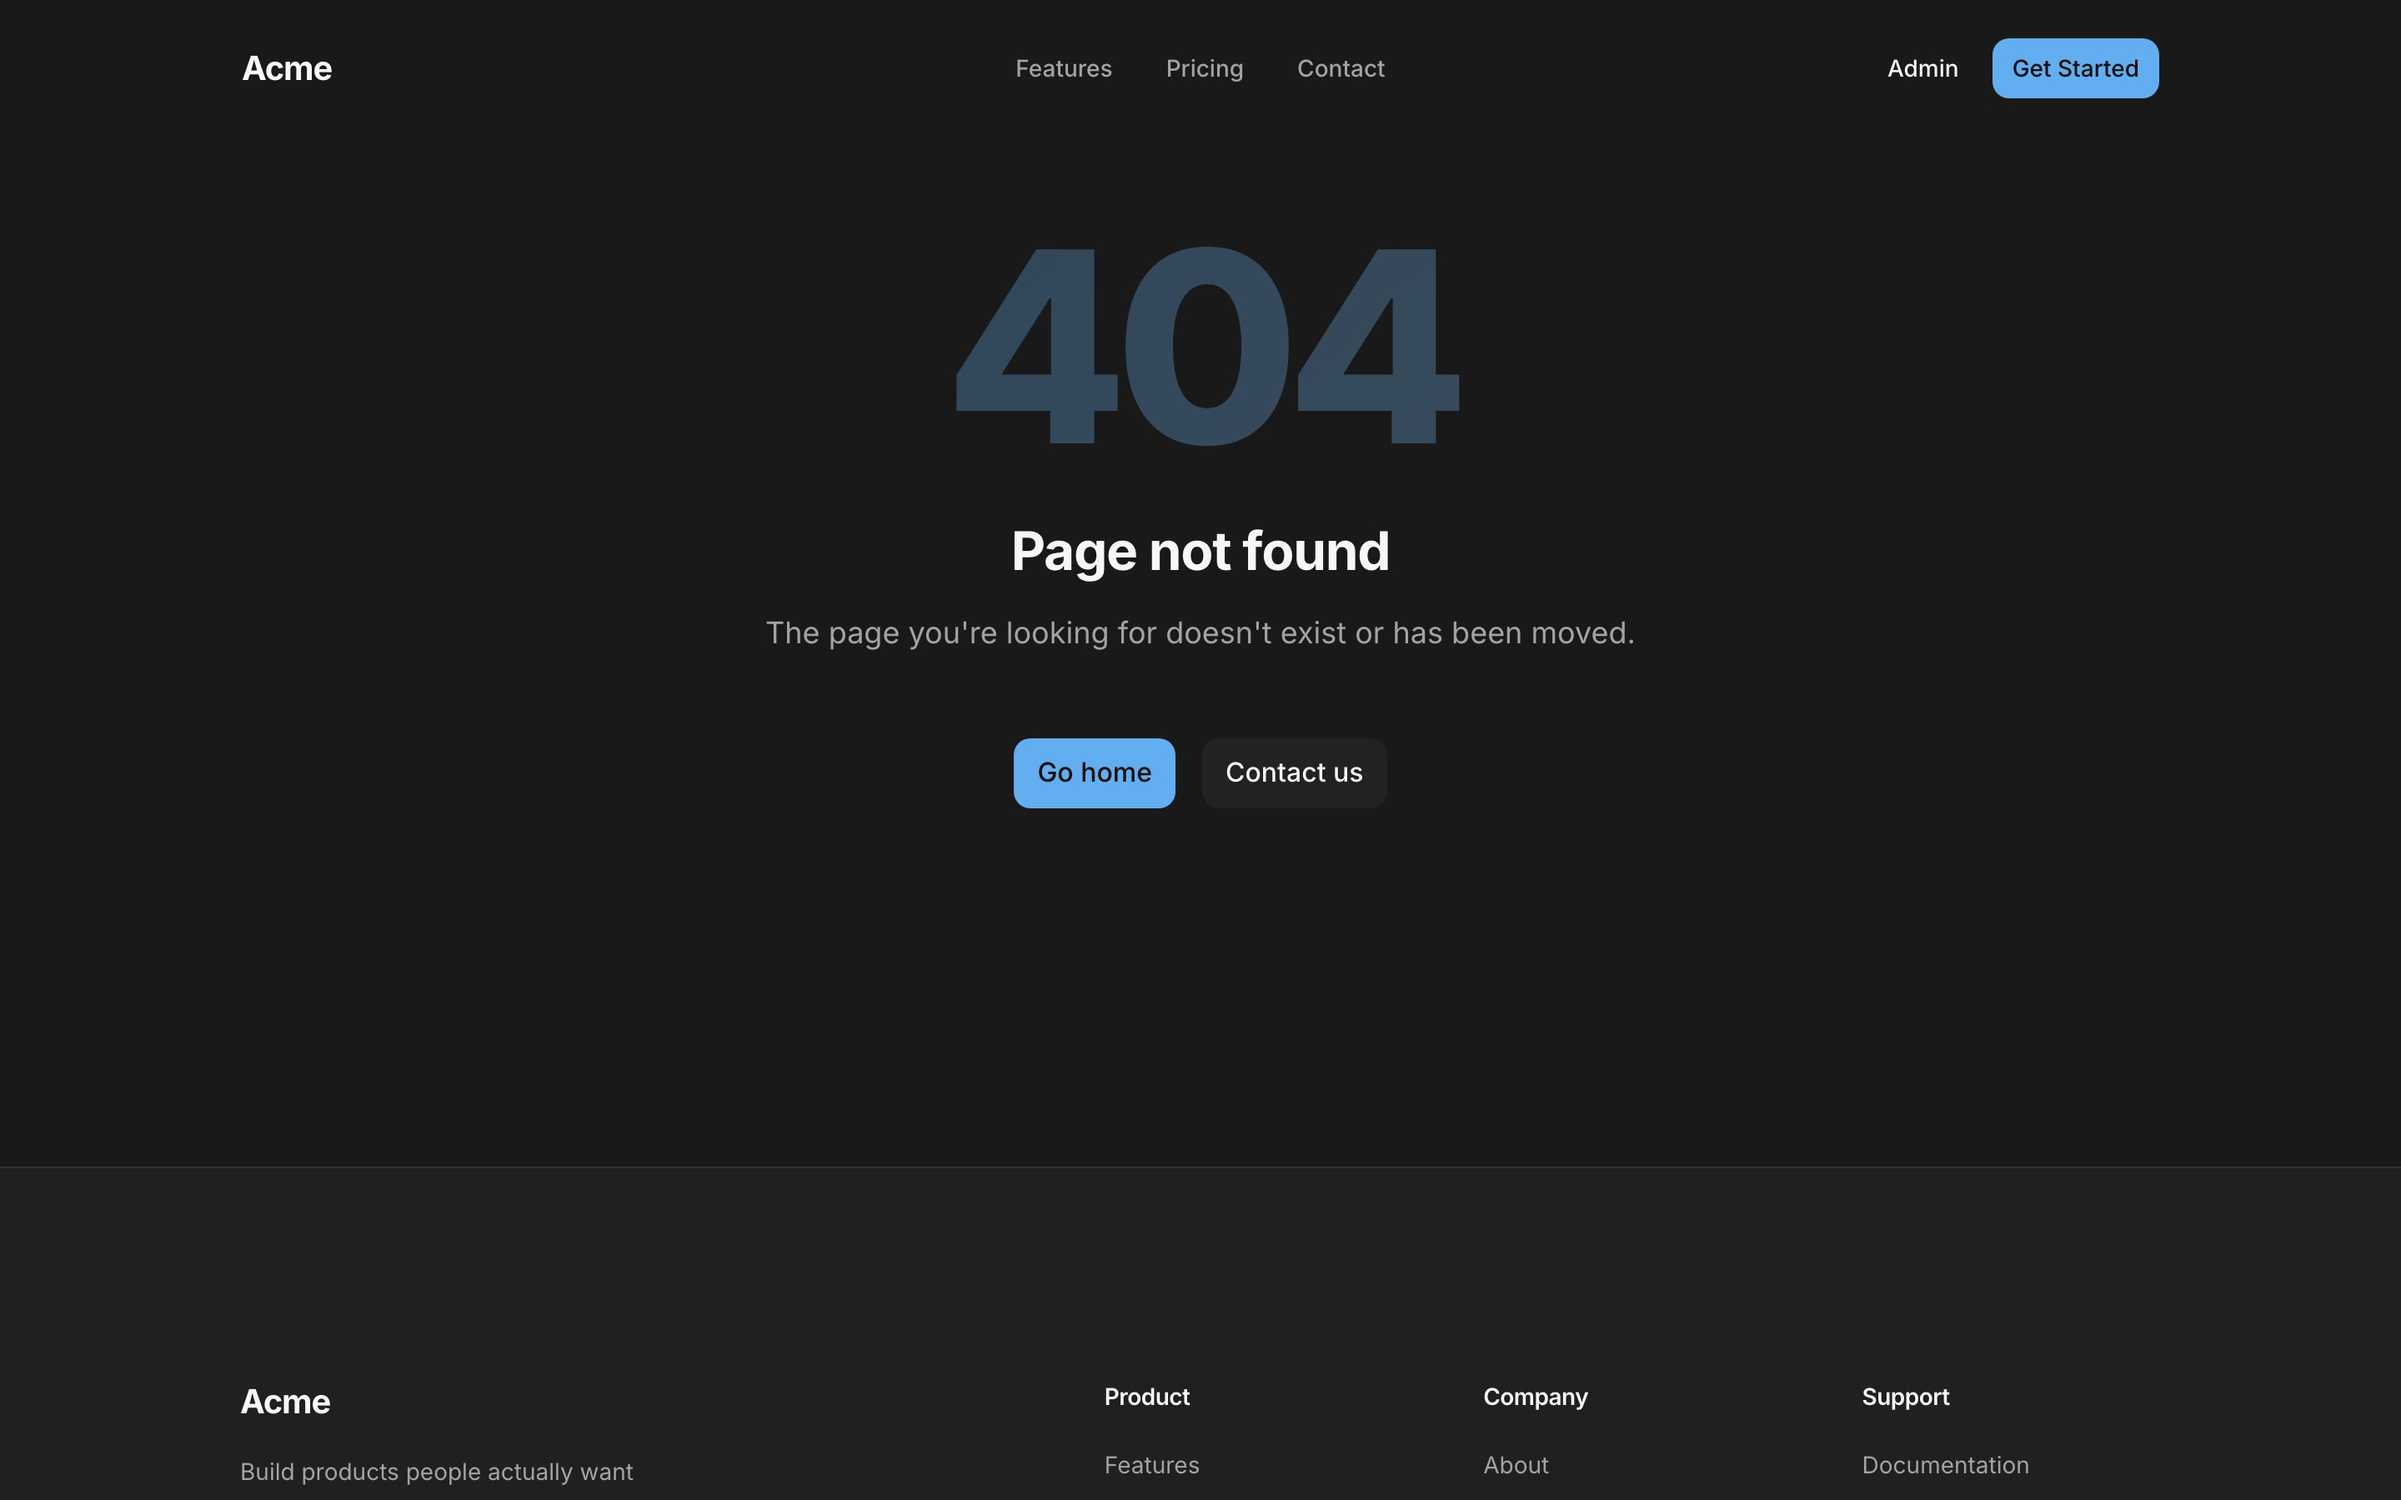
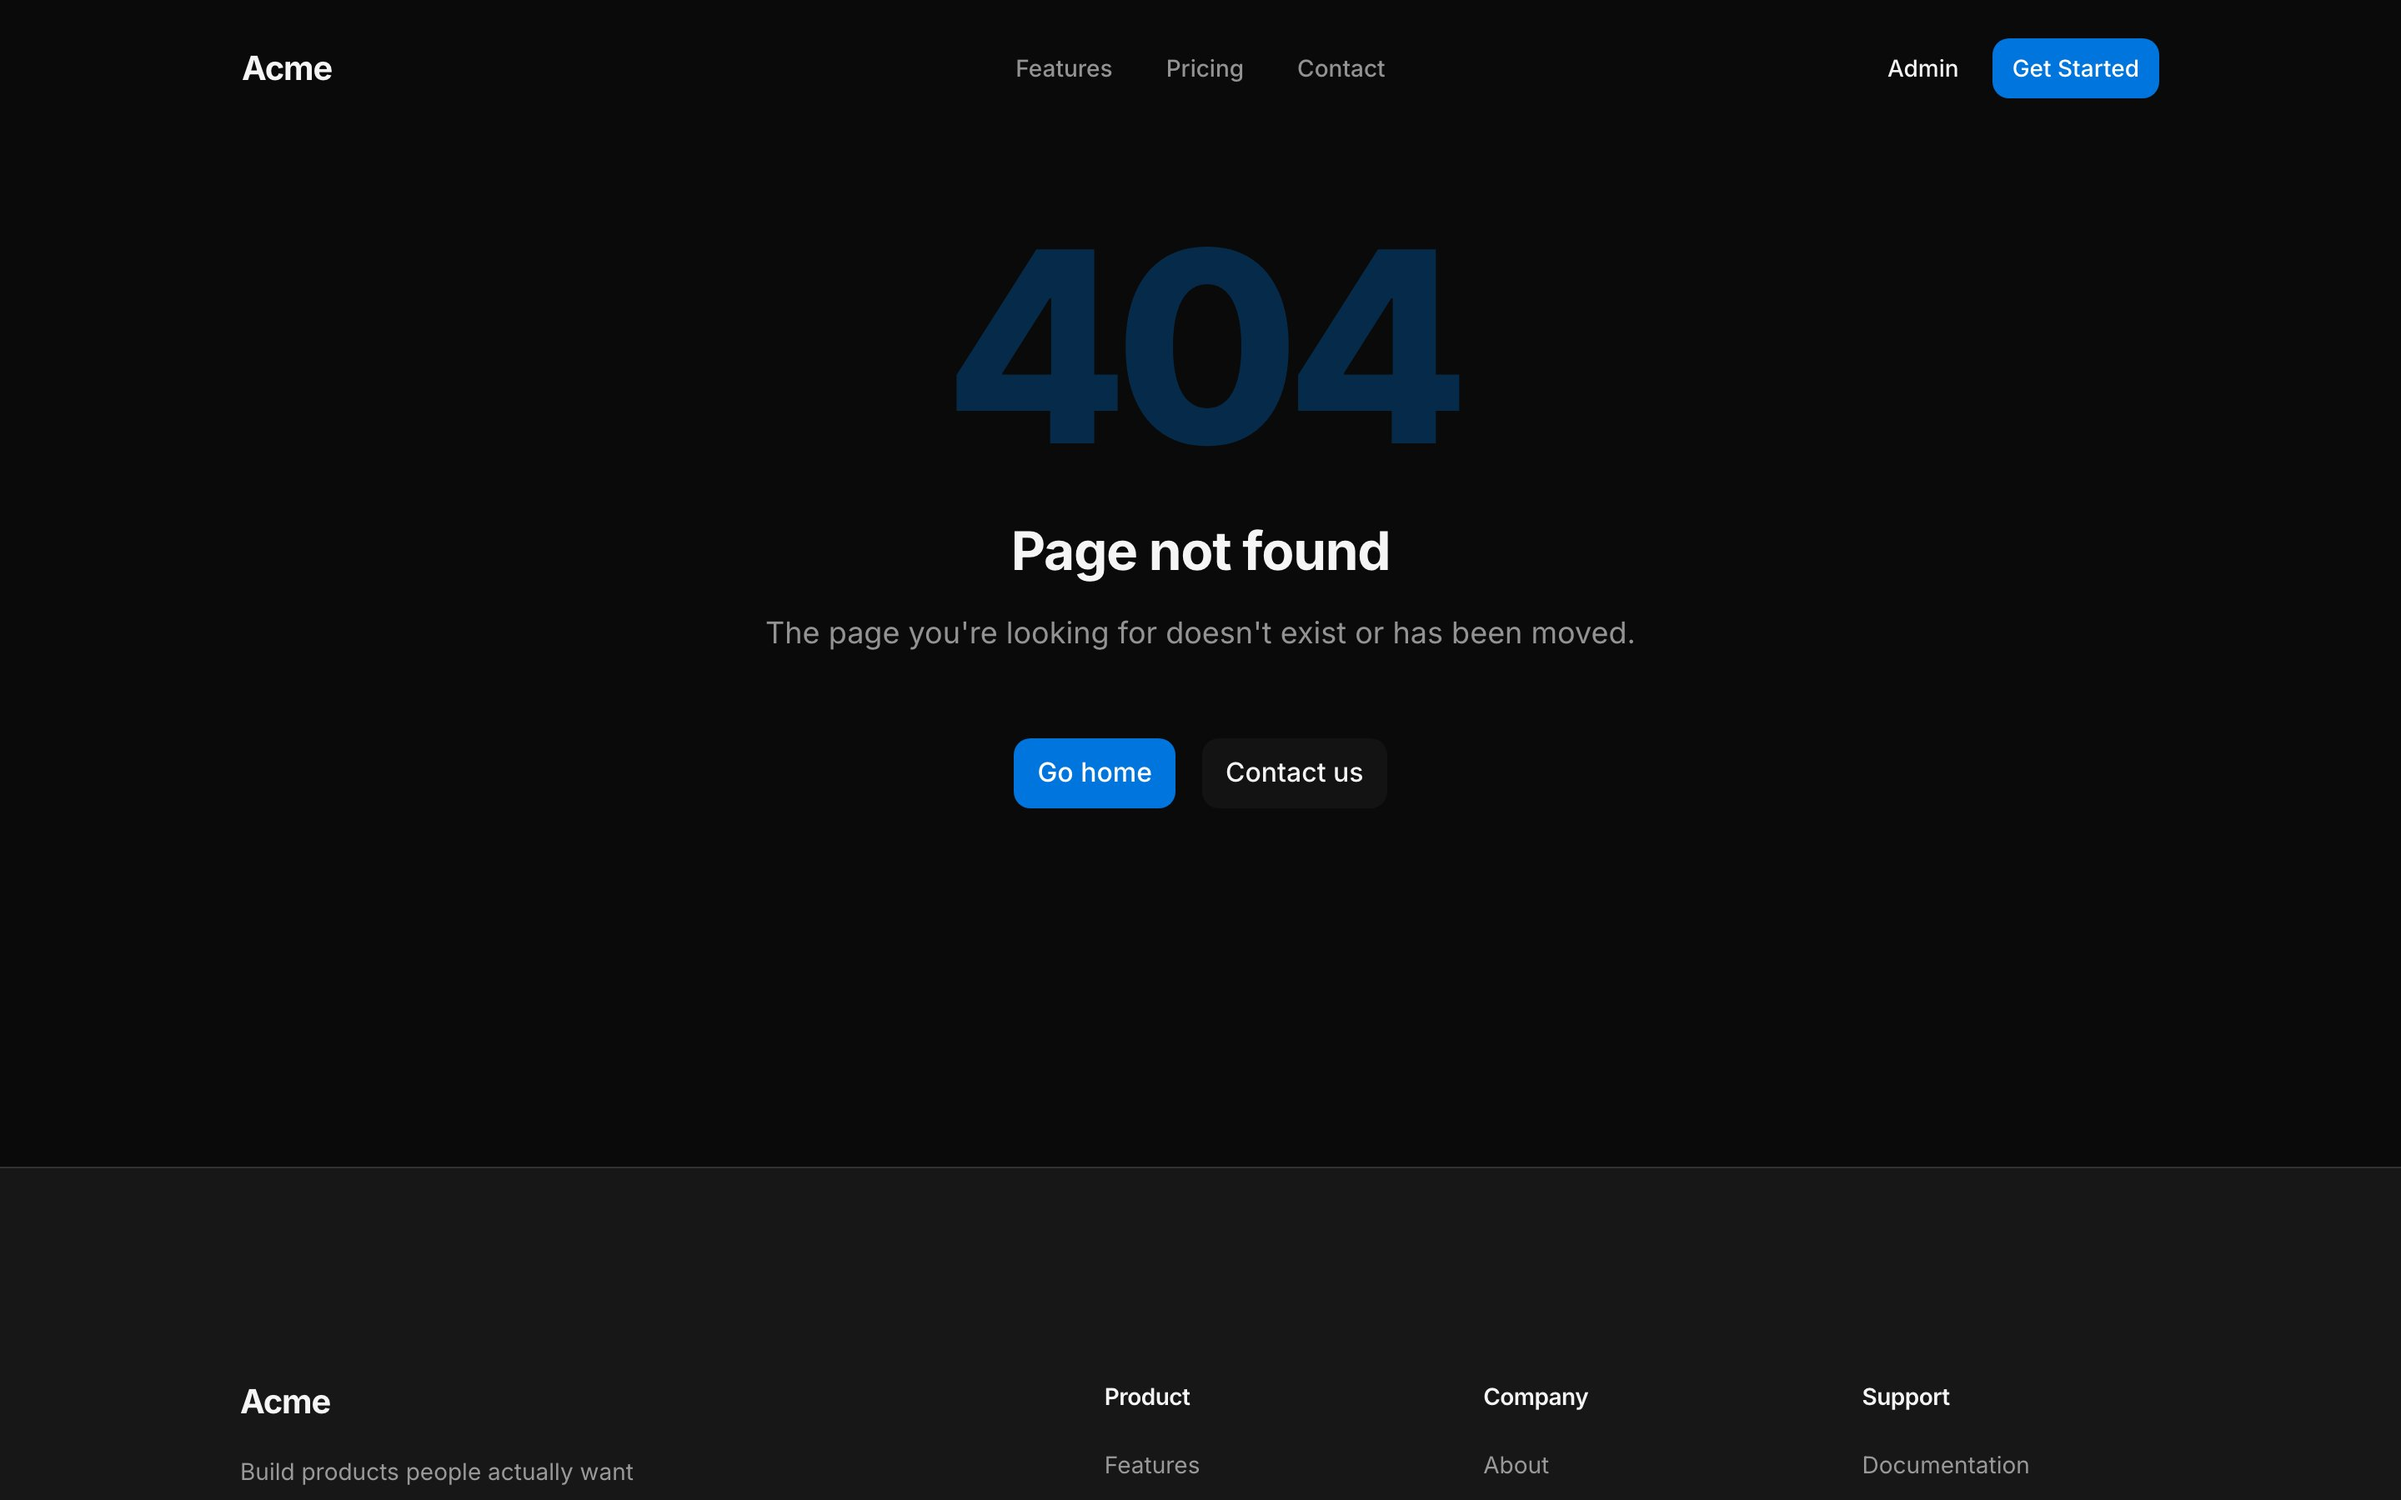
fix(marketing): match the public site dark theme

Changed region(s): [[0.375, 0.1556, 0.625, 0.3111], [0.4062, 0.4667, 0.5, 0.56], [0.8125, 0.0, 0.9062, 0.0933]]

diff --git a/templates/marketing-cloudflare/src/styles/tokens.css b/templates/marketing-cloudflare/src/styles/tokens.css
@@ -142,32 +142,33 @@
 
 	@media (prefers-color-scheme: dark) {
 		:root:not(.light) {
-			--accent-black: #f7f7f5ff;
+			--accent-black: #f5f5f5ff;
 			--accent-white: #ffffffff;
-			--surface: #202020ff;
-			--surface-raised: #262626ff;
+			--surface: #171717ff;
+			--surface-raised: #1f1f1fff;
 			--black-alpha-3: #ffffff08;
 			--black-alpha-4: #ffffff0a;
 			--black-alpha-6: #ffffff0f;
 			--black-alpha-7: #ffffff12;
 			--black-alpha-32: #ffffff52;
 			--black-alpha-48: #ffffff7a;
-			--black-alpha-56: #a3a3a3ff;
-			--border-faint: #292929ff;
+			--black-alpha-56: #ffffff8f;
+			--border-faint: #2a2a2aff;
 			--border-muted: #333333ff;
-			--border-loud: #454545ff;
-			--background-base: #191919ff;
-			--background-lighter: #1f1f1fff;
+			--border-loud: #404040ff;
+			--background-base: #0a0a0aff;
+			--background-lighter: #141414ff;
 			--color-bg: var(--background-base);
 			--color-text: var(--accent-black);
 			--color-muted: var(--black-alpha-56);
 			--color-border: var(--border-muted);
 			--color-surface: var(--surface);
 			--color-surface-raised: var(--surface-raised);
+			--color-brand: #62aef0;
 			--color-brand-hover: #82c1f5;
-			--color-brand-strong: #82c1f5;
-			--color-brand-soft: #262626;
-			--color-on-brand: #111111;
+			--color-brand-strong: #62aef0;
+			--color-brand-soft: #1f1f1f;
+			--color-on-brand: #ffffff;
 			--button-secondary-bg: var(--black-alpha-4);
 			--button-secondary-bg-hover: var(--black-alpha-6);
 			--button-secondary-bg-active: var(--black-alpha-7);
@@ -181,32 +182,33 @@
 	}
 
 	:root.dark {
-		--accent-black: #f7f7f5ff;
+		--accent-black: #f5f5f5ff;
 		--accent-white: #ffffffff;
-		--surface: #202020ff;
-		--surface-raised: #262626ff;
+		--surface: #171717ff;
+		--surface-raised: #1f1f1fff;
 		--black-alpha-3: #ffffff08;
 		--black-alpha-4: #ffffff0a;
 		--black-alpha-6: #ffffff0f;
 		--black-alpha-7: #ffffff12;
 		--black-alpha-32: #ffffff52;
 		--black-alpha-48: #ffffff7a;
-		--black-alpha-56: #a3a3a3ff;
-		--border-faint: #292929ff;
+		--black-alpha-56: #ffffff8f;
+		--border-faint: #2a2a2aff;
 		--border-muted: #333333ff;
-		--border-loud: #454545ff;
-		--background-base: #191919ff;
-		--background-lighter: #1f1f1fff;
+		--border-loud: #404040ff;
+		--background-base: #0a0a0aff;
+		--background-lighter: #141414ff;
 		--color-bg: var(--background-base);
 		--color-text: var(--accent-black);
 		--color-muted: var(--black-alpha-56);
 		--color-border: var(--border-muted);
 		--color-surface: var(--surface);
 		--color-surface-raised: var(--surface-raised);
+		--color-brand: #62aef0;
 		--color-brand-hover: #82c1f5;
-		--color-brand-strong: #82c1f5;
-		--color-brand-soft: #262626;
-		--color-on-brand: #111111;
+		--color-brand-strong: #62aef0;
+		--color-brand-soft: #1f1f1f;
+		--color-on-brand: #ffffff;
 		--button-secondary-bg: var(--black-alpha-4);
 		--button-secondary-bg-hover: var(--black-alpha-6);
 		--button-secondary-bg-active: var(--black-alpha-7);

diff --git a/templates/marketing/src/styles/tokens.css b/templates/marketing/src/styles/tokens.css
@@ -142,32 +142,33 @@
 
 	@media (prefers-color-scheme: dark) {
 		:root:not(.light) {
-			--accent-black: #f7f7f5ff;
+			--accent-black: #f5f5f5ff;
 			--accent-white: #ffffffff;
-			--surface: #202020ff;
-			--surface-raised: #262626ff;
+			--surface: #171717ff;
+			--surface-raised: #1f1f1fff;
 			--black-alpha-3: #ffffff08;
 			--black-alpha-4: #ffffff0a;
 			--black-alpha-6: #ffffff0f;
 			--black-alpha-7: #ffffff12;
 			--black-alpha-32: #ffffff52;
 			--black-alpha-48: #ffffff7a;
-			--black-alpha-56: #a3a3a3ff;
-			--border-faint: #292929ff;
+			--black-alpha-56: #ffffff8f;
+			--border-faint: #2a2a2aff;
 			--border-muted: #333333ff;
-			--border-loud: #454545ff;
-			--background-base: #191919ff;
-			--background-lighter: #1f1f1fff;
+			--border-loud: #404040ff;
+			--background-base: #0a0a0aff;
+			--background-lighter: #141414ff;
 			--color-bg: var(--background-base);
 			--color-text: var(--accent-black);
 			--color-muted: var(--black-alpha-56);
 			--color-border: var(--border-muted);
 			--color-surface: var(--surface);
 			--color-surface-raised: var(--surface-raised);
+			--color-brand: #62aef0;
 			--color-brand-hover: #82c1f5;
-			--color-brand-strong: #82c1f5;
-			--color-brand-soft: #262626;
-			--color-on-brand: #111111;
+			--color-brand-strong: #62aef0;
+			--color-brand-soft: #1f1f1f;
+			--color-on-brand: #ffffff;
 			--button-secondary-bg: var(--black-alpha-4);
 			--button-secondary-bg-hover: var(--black-alpha-6);
 			--button-secondary-bg-active: var(--black-alpha-7);
@@ -181,32 +182,33 @@
 	}
 
 	:root.dark {
-		--accent-black: #f7f7f5ff;
+		--accent-black: #f5f5f5ff;
 		--accent-white: #ffffffff;
-		--surface: #202020ff;
-		--surface-raised: #262626ff;
+		--surface: #171717ff;
+		--surface-raised: #1f1f1fff;
 		--black-alpha-3: #ffffff08;
 		--black-alpha-4: #ffffff0a;
 		--black-alpha-6: #ffffff0f;
 		--black-alpha-7: #ffffff12;
 		--black-alpha-32: #ffffff52;
 		--black-alpha-48: #ffffff7a;
-		--black-alpha-56: #a3a3a3ff;
-		--border-faint: #292929ff;
+		--black-alpha-56: #ffffff8f;
+		--border-faint: #2a2a2aff;
 		--border-muted: #333333ff;
-		--border-loud: #454545ff;
-		--background-base: #191919ff;
-		--background-lighter: #1f1f1fff;
+		--border-loud: #404040ff;
+		--background-base: #0a0a0aff;
+		--background-lighter: #141414ff;
 		--color-bg: var(--background-base);
 		--color-text: var(--accent-black);
 		--color-muted: var(--black-alpha-56);
 		--color-border: var(--border-muted);
 		--color-surface: var(--surface);
 		--color-surface-raised: var(--surface-raised);
+		--color-brand: #62aef0;
 		--color-brand-hover: #82c1f5;
-		--color-brand-strong: #82c1f5;
-		--color-brand-soft: #262626;
-		--color-on-brand: #111111;
+		--color-brand-strong: #62aef0;
+		--color-brand-soft: #1f1f1f;
+		--color-on-brand: #ffffff;
 		--button-secondary-bg: var(--black-alpha-4);
 		--button-secondary-bg-hover: var(--black-alpha-6);
 		--button-secondary-bg-active: var(--black-alpha-7);

diff --git a/templates/marketing-cloudflare/src/styles/theme.css b/templates/marketing-cloudflare/src/styles/theme.css
@@ -28,45 +28,47 @@
 }
 
 :root.dark {
-	--heat-100: #62aef0;
-	--heat-90: #62aef0e6;
-	--heat-40: #62aef066;
-	--heat-20: #62aef033;
-	--heat-12: #62aef01f;
-	--heat-8: #62aef014;
-	--heat-4: #62aef00a;
+	--heat-100: #0075de;
+	--heat-90: #0075dee6;
+	--heat-40: #0075de66;
+	--heat-20: #0075de33;
+	--heat-12: #0075de1f;
+	--heat-8: #0075de14;
+	--heat-4: #0075de0a;
 	--color-primary: var(--heat-100);
-	--color-primary-dark: #3d98e6;
+	--color-primary-dark: #005bab;
 	--color-primary-light: var(--heat-12);
-	--color-accent: #82c1f5;
+	--color-accent: var(--heat-100);
 	--color-accent-light: var(--heat-12);
+	--color-brand: #62aef0;
 	--color-brand-hover: #82c1f5;
-	--color-brand-strong: #82c1f5;
-	--color-brand-soft: #262626;
-	--button-primary-bg-hover: #82c1f5;
-	--button-primary-bg-active: #3d98e6;
-	--button-primary-fg: #111111;
+	--color-brand-strong: #62aef0;
+	--color-brand-soft: #1f1f1f;
+	--button-primary-bg-hover: var(--heat-90);
+	--button-primary-bg-active: #005bab;
+	--button-primary-fg: #ffffff;
 }
 
 @media (prefers-color-scheme: dark) {
 	:root:not(.light) {
-		--heat-100: #62aef0;
-		--heat-90: #62aef0e6;
-		--heat-40: #62aef066;
-		--heat-20: #62aef033;
-		--heat-12: #62aef01f;
-		--heat-8: #62aef014;
-		--heat-4: #62aef00a;
+		--heat-100: #0075de;
+		--heat-90: #0075dee6;
+		--heat-40: #0075de66;
+		--heat-20: #0075de33;
+		--heat-12: #0075de1f;
+		--heat-8: #0075de14;
+		--heat-4: #0075de0a;
 		--color-primary: var(--heat-100);
-		--color-primary-dark: #3d98e6;
+		--color-primary-dark: #005bab;
 		--color-primary-light: var(--heat-12);
-		--color-accent: #82c1f5;
+		--color-accent: var(--heat-100);
 		--color-accent-light: var(--heat-12);
+		--color-brand: #62aef0;
 		--color-brand-hover: #82c1f5;
-		--color-brand-strong: #82c1f5;
-		--color-brand-soft: #262626;
-		--button-primary-bg-hover: #82c1f5;
-		--button-primary-bg-active: #3d98e6;
-		--button-primary-fg: #111111;
+		--color-brand-strong: #62aef0;
+		--color-brand-soft: #1f1f1f;
+		--button-primary-bg-hover: var(--heat-90);
+		--button-primary-bg-active: #005bab;
+		--button-primary-fg: #ffffff;
 	}
 }

diff --git a/templates/marketing/src/styles/theme.css b/templates/marketing/src/styles/theme.css
@@ -28,45 +28,47 @@
 }
 
 :root.dark {
-	--heat-100: #62aef0;
-	--heat-90: #62aef0e6;
-	--heat-40: #62aef066;
-	--heat-20: #62aef033;
-	--heat-12: #62aef01f;
-	--heat-8: #62aef014;
-	--heat-4: #62aef00a;
+	--heat-100: #0075de;
+	--heat-90: #0075dee6;
+	--heat-40: #0075de66;
+	--heat-20: #0075de33;
+	--heat-12: #0075de1f;
+	--heat-8: #0075de14;
+	--heat-4: #0075de0a;
 	--color-primary: var(--heat-100);
-	--color-primary-dark: #3d98e6;
+	--color-primary-dark: #005bab;
 	--color-primary-light: var(--heat-12);
-	--color-accent: #82c1f5;
+	--color-accent: var(--heat-100);
 	--color-accent-light: var(--heat-12);
+	--color-brand: #62aef0;
 	--color-brand-hover: #82c1f5;
-	--color-brand-strong: #82c1f5;
-	--color-brand-soft: #262626;
-	--button-primary-bg-hover: #82c1f5;
-	--button-primary-bg-active: #3d98e6;
-	--button-primary-fg: #111111;
+	--color-brand-strong: #62aef0;
+	--color-brand-soft: #1f1f1f;
+	--button-primary-bg-hover: var(--heat-90);
+	--button-primary-bg-active: #005bab;
+	--button-primary-fg: #ffffff;
 }
 
 @media (prefers-color-scheme: dark) {
 	:root:not(.light) {
-		--heat-100: #62aef0;
-		--heat-90: #62aef0e6;
-		--heat-40: #62aef066;
-		--heat-20: #62aef033;
-		--heat-12: #62aef01f;
-		--heat-8: #62aef014;
-		--heat-4: #62aef00a;
+		--heat-100: #0075de;
+		--heat-90: #0075dee6;
+		--heat-40: #0075de66;
+		--heat-20: #0075de33;
+		--heat-12: #0075de1f;
+		--heat-8: #0075de14;
+		--heat-4: #0075de0a;
 		--color-primary: var(--heat-100);
-		--color-primary-dark: #3d98e6;
+		--color-primary-dark: #005bab;
 		--color-primary-light: var(--heat-12);
-		--color-accent: #82c1f5;
+		--color-accent: var(--heat-100);
 		--color-accent-light: var(--heat-12);
+		--color-brand: #62aef0;
 		--color-brand-hover: #82c1f5;
-		--color-brand-strong: #82c1f5;
-		--color-brand-soft: #262626;
-		--button-primary-bg-hover: #82c1f5;
-		--button-primary-bg-active: #3d98e6;
-		--button-primary-fg: #111111;
+		--color-brand-strong: #62aef0;
+		--color-brand-soft: #1f1f1f;
+		--button-primary-bg-hover: var(--heat-90);
+		--button-primary-bg-active: #005bab;
+		--button-primary-fg: #ffffff;
 	}
 }
